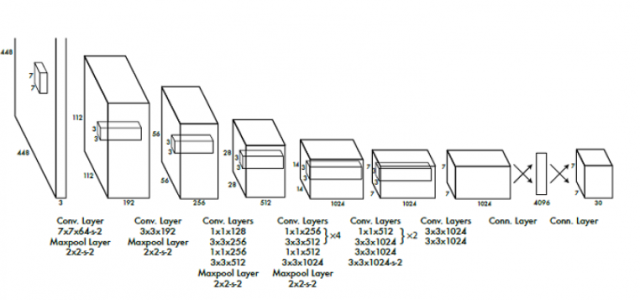
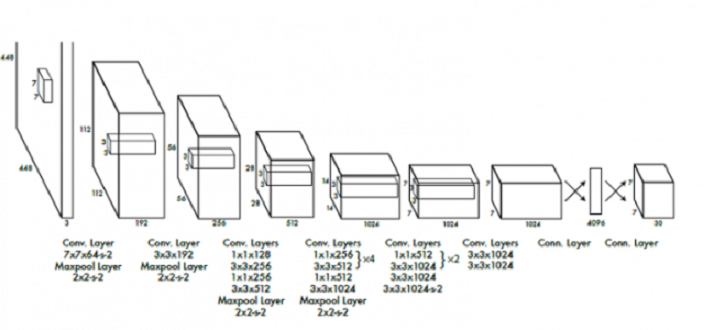
Finishing yolo method + adding images in assets + adding content slide in slideorder

diff --git a/slides/Methods/yolo/yolo.md b/slides/Methods/yolo/yolo.md
@@ -1,0 +1,25 @@
+---
+marp: true
+---
+
+## YOLO (You Only Look Once)
+- Real time object detection algorithm
+- Requires only one forward propagation to make predictions
+- Outperforms other detection methods
+![alt text](/assets/images/yoloExample.jpg "YOLO Example")
+
+---
+
+### Workflow
+- Resolves object detection as a regression problem
+- Splits input image to NxN grid and gives confidence score for each cell
+- Neural Network : 24 convolution layers followed by 2 fully connected layers
+![alt text](/assets/images/yoloNN.png "YOLO Example")
+
+---
+
+### Performance
+- Adjustements and improvements in v2 (v3 and v4 also exist)
+- Better and faster overall
+- Trained on VOC 2012 on following comparaison
+![alt text](/assets/images/yoloPerformance.png "YOLO Example")
